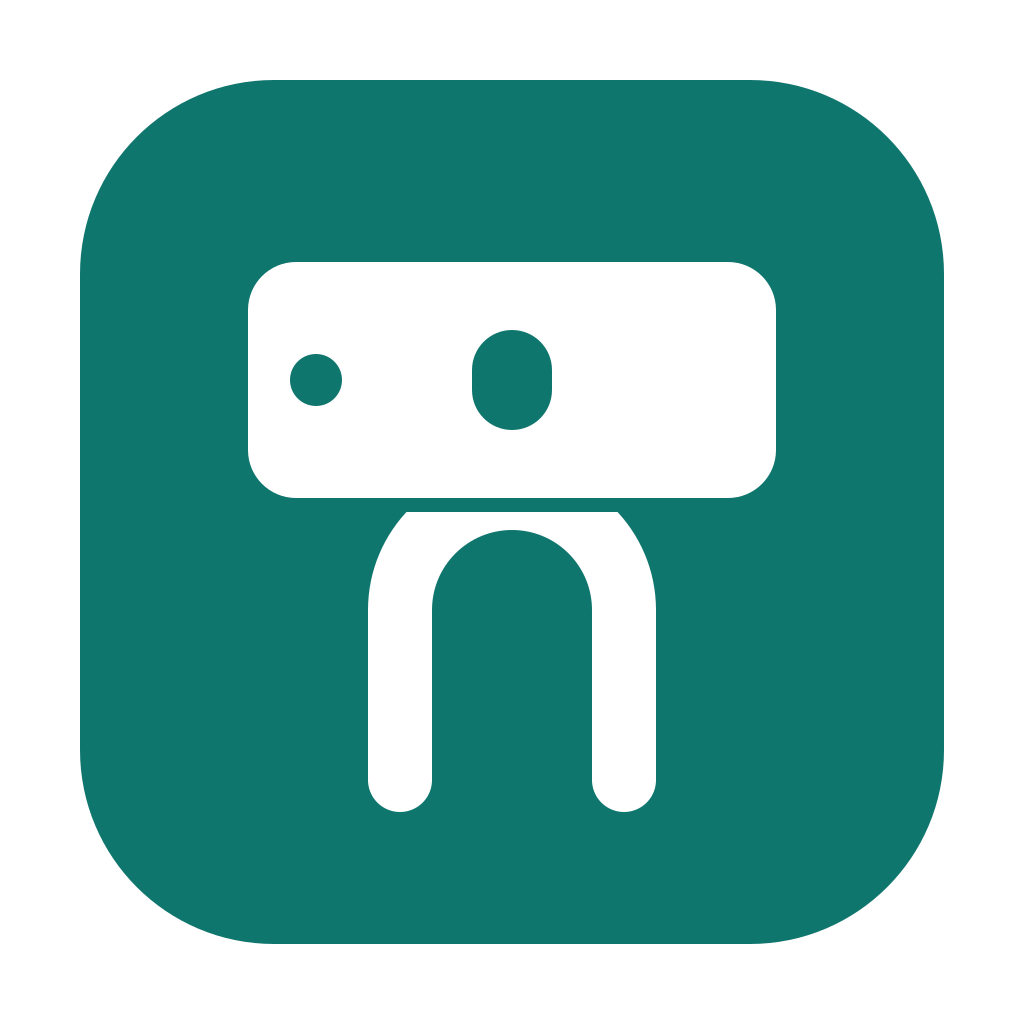
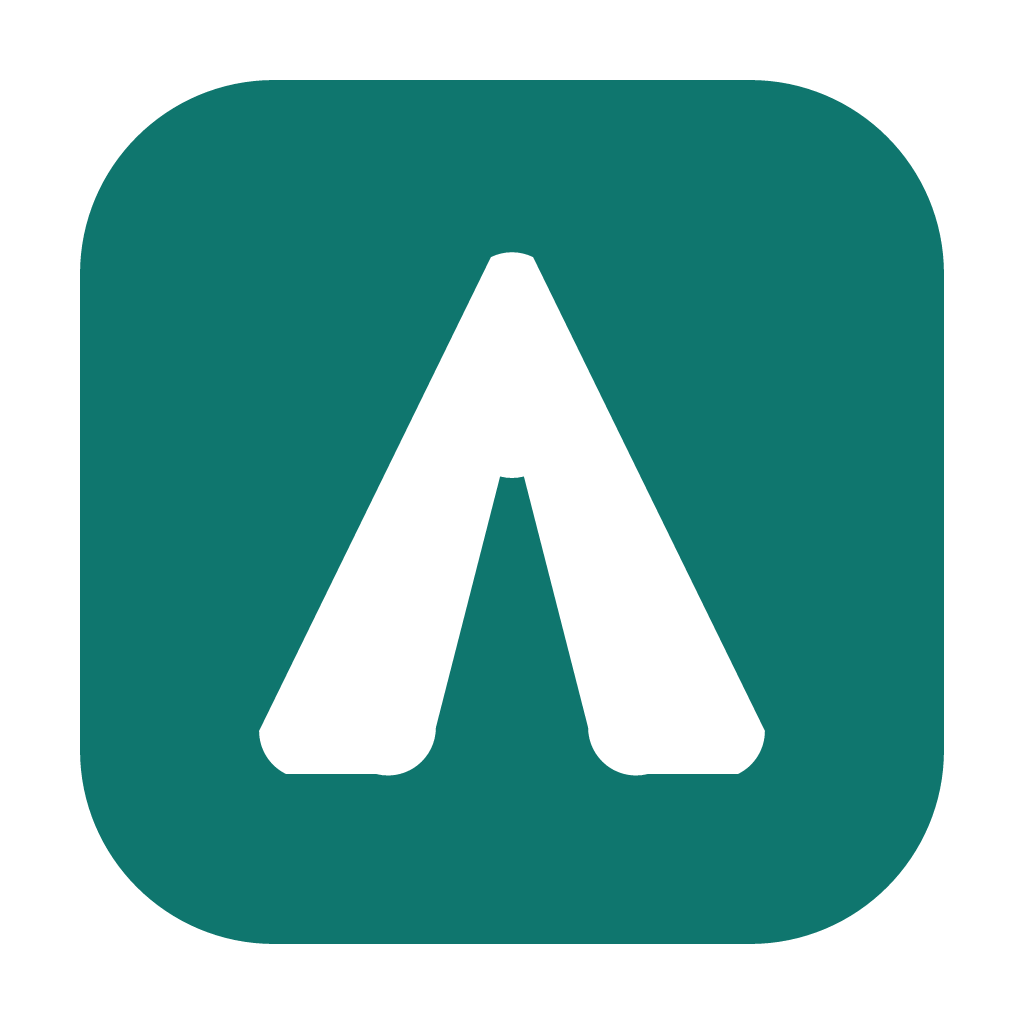
feat(brand): install the solid-lambda artwork and its render script

Changed region(s): [[0.2188, 0.25, 0.7812, 0.8125]]

diff --git a/packages/shared/src/brand.ts b/packages/shared/src/brand.ts
@@ -1,8 +1,6 @@
-// OxVault mark: a oxvault plate over a staple, as filled shapes (assets/brand/source/oxvault-glyph.svg).
-// The slot and hole wind the opposite way so they cut out of the plate.
+// OxVault mark: a solid lambda, as a filled shape
+// (assets/brand/source/oxvault-glyph.svg). The notch is cut up from the
+// base so the mark still reads as a lambda at 16px.
 export const oxvaultPaths = [
-  // Staple
-  'M368 780 V610 A144 144 0 0 1 656 610 V780 H592 V610 A80 80 0 0 0 432 610 V780 Z',
-  // Plate with slot and hole
-  'M296 262 H728 A48 48 0 0 1 776 310 V450 A48 48 0 0 1 728 498 H296 A48 48 0 0 1 248 450 V310 A48 48 0 0 1 296 262 Z M512 330 A40 40 0 0 0 472 370 V390 A40 40 0 0 0 552 390 V370 A40 40 0 0 0 512 330 Z M316 354 A26 26 0 0 0 290 380 A26 26 0 0 0 316 406 A26 26 0 0 0 342 380 A26 26 0 0 0 316 354 Z',
+  'M490.9 257.12 A48 48 0 0 1 533.1 257.12 L764.9 730.88 A48 48 0 0 1 738 774 L648 774 A48 48 0 0 1 588.1 727.5 L523.9 476.5 A48 48 0 0 1 500.1 476.5 L435.9 727.5 A48 48 0 0 1 376 774 L286 774 A48 48 0 0 1 259.1 730.88 Z',
 ];

diff --git a/assets/brand/README.md b/assets/brand/README.md
@@ -1,10 +1,11 @@
 # OxVault artwork
 
-The OxVault icon is original artwork made for this project. It is a padlock-plate and staple on a teal rounded square. Source color: #0F766E.
+The OxVault icon is original artwork made for this project: the solid lambda (one filled path, no strokes, #0F766E teal ground).
 
 - `OxVault.icon/`: editable Icon Composer document and its glyph.
 - `source/oxvault-glyph.svg`: foreground vector.
-- `source/flat-icon.svg`: full icon. Every PNG below is rendered from this file.
+- `source/flat-icon.svg`: full icon. Every PNG below is rendered from this file via `render.sh`.
+- `render.sh`: render script producing the icon assets from `source/flat-icon.svg`.
 - `macos/icon-{16,32,64,128,256,512,1024}.png`: default macOS icon sizes. The native build generates the asset catalog and ICNS used by the app and AutoFill provider.
 - `../../apps/extension/public/icon-{16,32,48,128}.png`: browser toolbar icons.
 - `../../apps/raycast/assets/icon.png`: Raycast icon.
